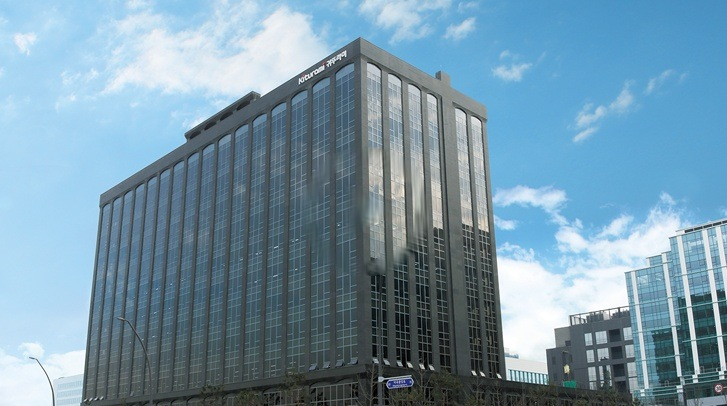
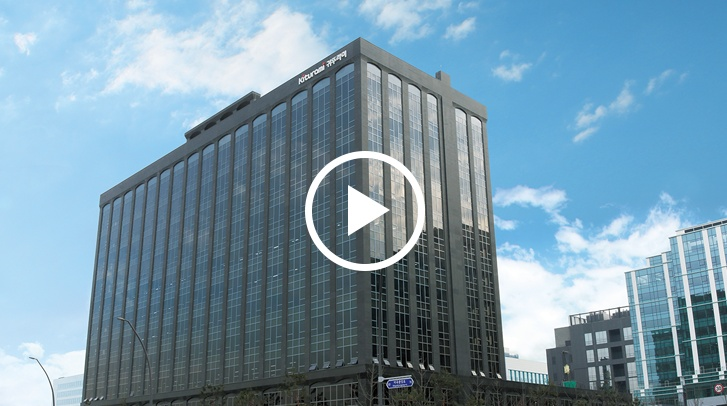
기업 소개 영상: 추가한 파란 재생 버튼 제거, 사진 속 흰색 버튼 복원 후 그 위를 클릭해 재생
Claude-Session: https://claude.ai/code/session_01XPEFh2yz6gwGgmAd4fbqqD

Changed region(s): [[0.3934, 0.3547, 0.6052, 0.6798]]

diff --git a/Kiturami/css/brand.css b/Kiturami/css/brand.css
@@ -1781,10 +1781,9 @@
     background: #000;
 }
 
-/* 영상 중앙 재생 버튼 */
+/* 영상 중앙 재생 버튼: 썸네일 사진 속 흰색 재생 버튼 위에 투명 클릭 영역만 둔다 */
 .company-vision__player{position:relative}
-.company-vision__play{position:absolute;top:50%;left:50%;width:88px;height:88px;margin:-44px 0 0 -44px;border:0;border-radius:50%;background:rgba(1,113,189,.92);box-shadow:0 8px 24px rgba(0,0,0,.28);cursor:pointer;transition:transform .18s ease,background .18s ease}
-.company-vision__play::after{content:"";position:absolute;top:50%;left:50%;margin:-14px 0 0 -9px;border-style:solid;border-width:14px 0 14px 24px;border-color:transparent transparent transparent #fff}
-.company-vision__play:hover,.company-vision__play:focus-visible{transform:scale(1.08);background:#0171bd}
+.company-vision__play{position:absolute;top:50%;left:50%;width:120px;height:120px;margin:-60px 0 0 -60px;padding:0;border:0;border-radius:50%;background:transparent;cursor:pointer}
+.company-vision__play:focus-visible{outline:3px solid #0171bd;outline-offset:2px}
 .company-vision__player.is-playing .company-vision__play{display:none}
-@media(max-width:768px){.company-vision__play{width:64px;height:64px;margin:-32px 0 0 -32px}.company-vision__play::after{margin:-10px 0 0 -6px;border-width:10px 0 10px 17px}}
+@media(max-width:768px){.company-vision__play{width:84px;height:84px;margin:-42px 0 0 -42px}}
